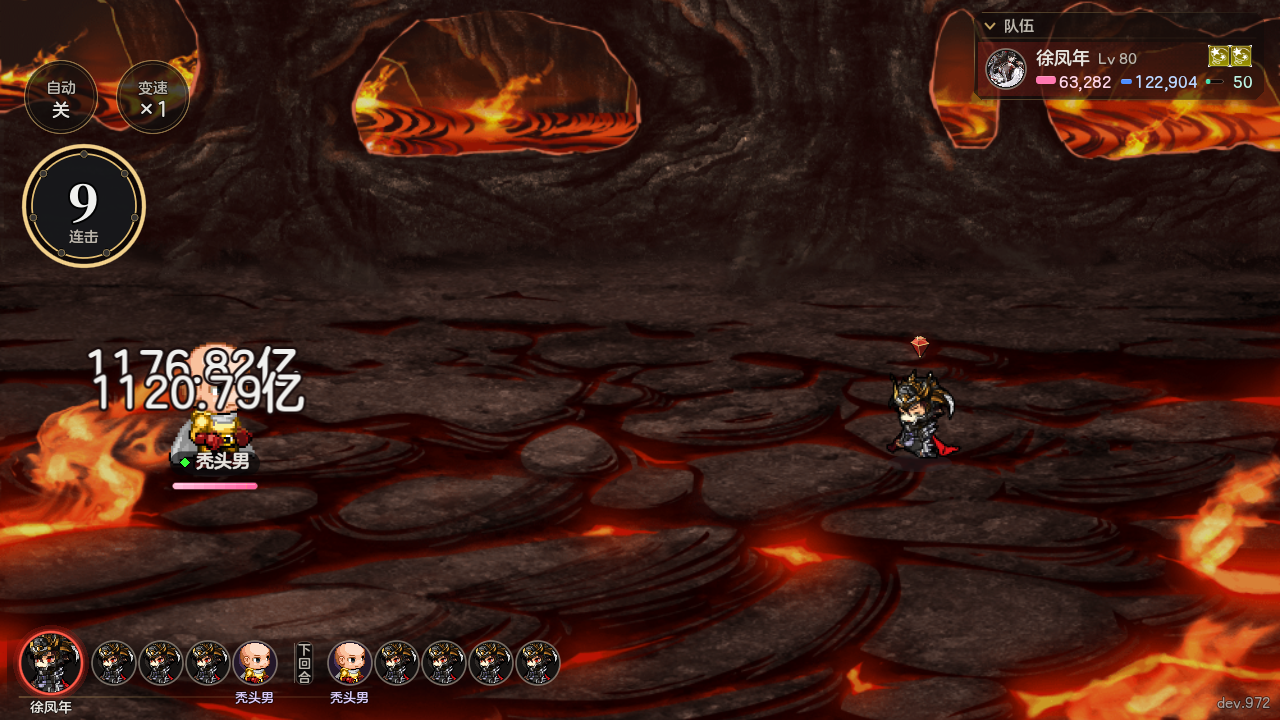
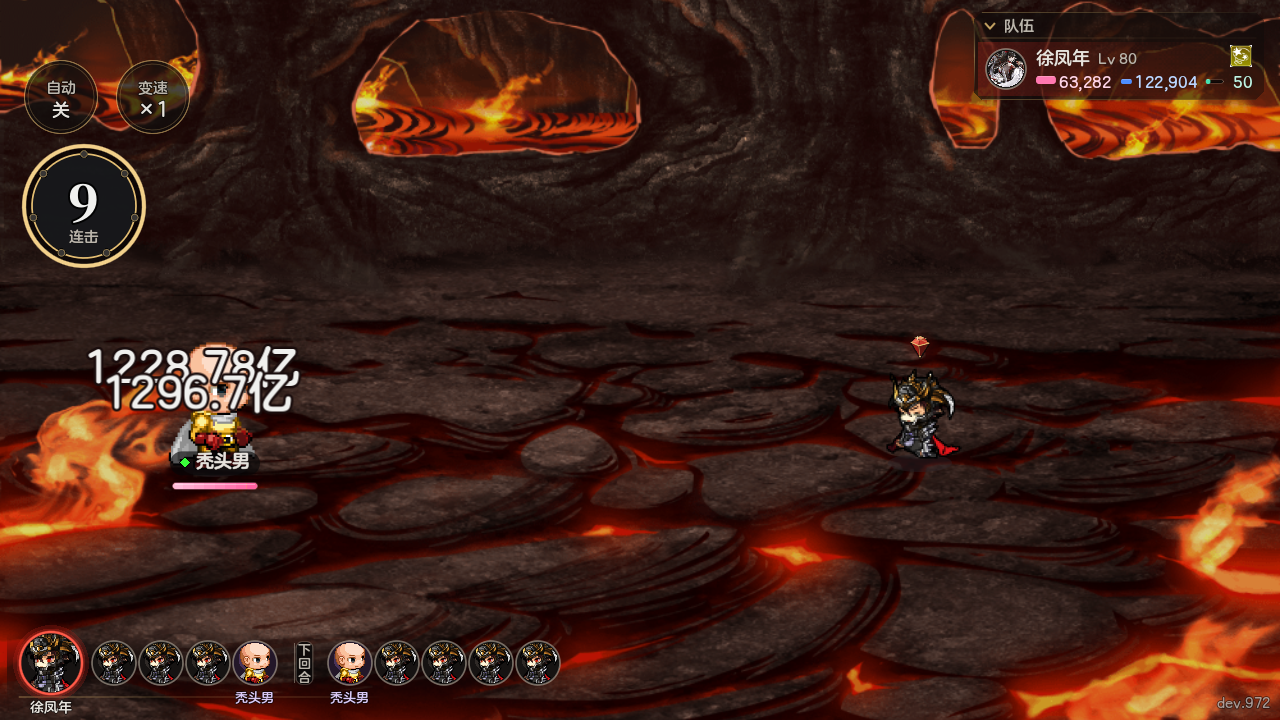
T586 R2 力竭真减半（属性最外层 ×50%，开关 XXufeng.LIJIE_MUL）、施放当回合状态栏只列收剑；剑九系数 361000→384000／545000→580000 拉回 D272 守线（75 全套仍 PENDING_KYO）；重拍 05～07；交付单 R2 节
执行者: cc
核查: 待审查

Changed region(s): [[0.0625, 0.4583, 0.25, 0.5806], [0.9375, 0.0611, 0.9688, 0.0917]]

diff --git a/00_项目管理/交付/luiluu_t586.md b/00_项目管理/交付/luiluu_t586.md
@@ -14,6 +14,25 @@
 
 量数影响：单敌 D272 口径逐种子与改前**逐位相同**（力竭改的只是施放当回合，那回合收剑本来就不能再行动；单敌时「全体」等于所选）。三敌木桩附报变了（剑九不再打全体）：70 级 1.046 → **0.521**，80 全套 1.129 → **0.653**（3 种子均值比，附报不判线）。截图 05～08 重拍（`TESTMODE unlocked=false enabled=false`，01～04 卡面重跑后与原图逐字节相同、没变）。
 
+## 返修 R2（2026-11-28，小o R2 复核 P2-1 余项）
+
+| 项 | 问题 | 怎么改 | 证据 |
+| --- | --- | --- | --- |
+| P2-1 余 | 力竭挂的是 −50% 能力值比率特性，本工程比率加算（1＋Σ(值−1)），80 级全套最大魔法只少 25%、物攻少 26%；施放当回合状态详情就列「力竭·2回合」 | 力竭不再挂比率特性，改在 `XActor._param_now` 最外层乘 `XXufeng.lijie_param`（×50%，收剑还在的施放当回合不乘），收剑的 +50% 抵消项随之去掉；施放当回合状态栏与侧栏格子不列力竭（`XXufeng.lijie_hidden`），收剑说明写「收剑期间属性不变，下一回合力竭：全属性-50%」，第 3 回合列「力竭·1回合」。回退开关 `XXufeng.LIJIE_MUL := true`（false 回 R1 加算） | 新断言 `full.*`（80 级全套）：施放当回合八项与施放前逐项相等、状态栏无力竭且收剑说明含「下一回合力竭」；第 3 回合八项逐项＝施放前×50%（63282→31641、122904→61452、25739→12870…）、状态栏「力竭·1回合」；第 4 回合逐项恢复；开关关回 R1 |
+| 强度 | 真减半后 D272 守线掉线（lv50 1.156→1.142、lv80 全套 1.209→1.115） | 协调 11-28 定 B：保留真减半，剑九系数只调一次 361000→**384000**、545000→**580000**（各 +6.5%；先用 +30% 探了一次斜率再定，探的那次没提交）；9998、剑三不动 | 下表 |
+
+调后口径 B（5／10 回合各五种子均值再平均；本机临时 HOME 隔离测试模式）：
+
+| 档 | 调前（R1） | 真减半未调 | 调后 | 判线 |
+| --- | --- | --- | --- | --- |
+| 50 | 1.156 | 1.142 | **1.197** | 过 |
+| 70 主 | 1.188 | 1.173 | **1.230** | 过 |
+| 75 全套 | 1.130 | 1.042 | **1.088** | 没回线，照旧 `PENDING_KYO` |
+| 80 全套 | 1.209 | 1.115 | **1.165** | 过 |
+| 关 888（50／70／75 全套／80 全套） | 1.080／1.176／1.139／1.252 | — | 1.118／1.218／1.121／1.234 | 70 过；50、75 全套照旧 `PENDING_KYO`；80 全套回线内（仍在名单里只打印） |
+
+每场选招（5 回合、种子 1～5 合计÷5）：50／70 级剑九 2 次、9998 7 次、剑三 2 次；75／80 全套剑九 2 次、9998 10 次、剑三 2 次。单击比（全暴击）：剑九一次（九段合计）÷狂刀 6039 一次 70 级 **0.854**、80 全套 **0.892**；剑九÷9998 一次 7.63／7.49。三敌附报 70 级 0.525、80 全套 0.584。截图 05～07 重拍（07 第 3 回合 31,641／61,452，正好减半），01～04 逐字节没变，08 老档那张没重拍（只看能不能放）。
+
 ## 变更记录草稿
 
 ## 2026-11-28 【cc·T586·未经审查】西游档徐凤年：剑一·龙蛇、剑二·并蒂莲、剑三·三斤、剑九·六千里做成主动战技，全套系数平摊重调（dev.待定）
@@ -25,7 +44,7 @@
     - 9988 剑二·并蒂莲：战技，敌方全体各两段，TP20、冷却 2；
     - 9989 剑三·三斤：战技，单体一段，50% 眩晕 1 回合（原版状态 29），TP30、冷却 3；
     - 剑一～剑三原被动加成（物理/寒冰伤、穿抗，D272 数值）照留；剑四～剑八照旧被动；
-    - 9995 剑九·六千里：战技，单体九段（只打所选的一个敌人），TP50，预热 2（第 2 回合起可用），冷却 2（战后冷却 −10 必清零）；放完给自己挂表外状态 19502「收剑」（本回合剩下的行动作废）与 19503「力竭」（下一回合全属性 ×50%；施放当回合由收剑抵消，属性不变）；去掉原版空公共事件 1704、`Hide in Battle`、空效果开战状态 2538；
+    - 9995 剑九·六千里：战技，单体九段（只打所选的一个敌人），TP50，预热 2（第 2 回合起可用），冷却 2（战后冷却 −10 必清零）；放完给自己挂表外状态 19502「收剑」（本回合剩下的行动作废）与 19503「力竭」（下一回合八项实际属性 ×50%，在属性最外层乘、不与装备比率加算；施放当回合不生效、状态栏只列收剑；回退开关 `XXufeng.LIJIE_MUL`）；去掉原版空公共事件 1704、`Hide in Battle`、空效果开战状态 2538；
     - 公式都和 9998 同形 `(666666+a.atk×系数)×(1+熟练度)`，系数整数，联动 `XMagicWeapon.SCALE_99_TO_888`。
   - 平摊重调（`XXufeng.REWORK` 下的 D272 数值，旧→新见下「全系数对照」）：天下第一、春雷不再压到 1%；60 级圣者境界、75 级剑道唯吾（T440 没动）分担削弱；9998 下调、剑九承接份额。
   - `modes/xiyou/core/xdb.gd`：表外状态分派从只认 19501 改成认 `XXufeng.has_out_state`（19501＋19502＋19503），同样只在 `xiyou_save_on()` 时（协调放行这一行）。
@@ -62,7 +81,7 @@
 | 9976 圣者境界（60） | 暴伤/终伤 | +100% | 不动 | +90% |
 | 10085 剑道唯吾（75） | 物理伤 | +350% | 不动 | +275% |
 | 9998 剑气滚龙壁·封印 | 每段物攻系数（888 口径／99 口径） | 3000＋敌血×0.000015 | 130000／209000 | 92000／139000 |
-| 9995 剑九·六千里 | 每段物攻系数（888／99），九段 | 无（空事件） | 无 | 361000／545000 |
+| 9995 剑九·六千里 | 每段物攻系数（888／99），九段 | 无（空事件） | 无 | 384000／580000（R2 力竭真减半后由 361000／545000 上调 6.5%） |
 | 9987 剑一·龙蛇 | 每段（888／99），随机 4 段 | 被动 | 被动 | 69000／110000 |
 | 9988 剑二·并蒂莲 | 每段（888／99），全体各 2 段 | 被动 | 被动 | 184000／296000 |
 | 9989 剑三·三斤 | 每段（888／99），单体 1 段 | 被动 | 被动 | 368000／592000 |
@@ -115,7 +134,7 @@
 - 剑二·并蒂莲：战技｜伤害属性 物理｜目标 敌方全体两次｜冷却 2回合｜消耗 20TP｜物理/寒冰伤害+8% 无视敌人物理/寒冰抗性+2%｜效果：一剑两花，同时斩向所有敌人｜据说是剑九黄的绝学!｜两仪相生并蒂莲
 - 剑三·三斤：战技｜伤害属性 物理｜目标 单体一次｜冷却 3回合｜消耗 30TP｜物理/寒冰伤害+10% 无视敌人物理/寒冰抗性+3%｜效果：剑重三斤，命中后有50%几率让目标眩晕1回合｜据说是剑九黄的绝学!｜剑上剑气重三斤
 - 剑九·六千里：战技｜伤害属性 物理｜目标 单体攻击九次｜消耗 50TP｜效果：战斗第2回合起才能使用，冷却2回合｜效果：九段剑气，伤害随攻击力和技能等级提升，可以暴击｜据说是剑九黄的绝学!｜代价：使出后本回合不能再行动，下一回合力竭，全属性降低50%｜劣马黄酒六千里
-- 新状态名：「收剑」（说明：剑九已出，本回合不能再行动；提示「%1收剑了！」）、「力竭」（说明：全属性-50%；提示「%1力竭了！」）
+- 新状态名：「收剑」（说明：剑九已出，本回合不能再行动／收剑期间属性不变，下一回合力竭：全属性-50%；提示「%1收剑了！」）、「力竭」（说明：全属性-50%；施放下一回合才出现在状态栏，显示 1 回合；提示「%1力竭了！」）
 - 改数的卡面行（文字格式不变，只换数）：天下第一「你有2%的几率再次行动」「爆伤+6%，伤害+6%」「所有伤害+5%」「暴击率+250%」「命中率+250%」「所有属性+3%」「最大魔法值+15000 +150%」「最大生命值+50000 +250%」「无视敌人所有抵抗30%」；春雷「混沌伤+90%」「攻击力能力值*105%，爆伤+25%，伤害+25%」；圣者境界「暴击伤害、最终伤害各＋90%」；剑道唯吾「物理伤害+275%」；9998「伤害:连续攻击敌方全体五次，伤害随攻击力和技能等级提升。」「对象:敌方全体攻击五次」（返修 P2-2：原来写内部公式、对象写单体，改成不带系数、如实写全体）。
 - 卡面不写内部系数（四招新卡面没有公式行）、不写存档模式名。
 
@@ -124,7 +143,7 @@
 - `00_项目管理/交付/luiluu_t586_截图/01_card_9987.png`～`04_card_9995.png`：剑一～剑三、剑九卡面，左开关关（T585 口径：被动／剑九「使用可以领悟剑气」），右 T586。
 - `05_skill_list_turn2.png`：第 2 回合战技列表（剑一·龙蛇、剑二·并蒂莲、剑三·三斤、剑九·六千里、剑气滚龙壁）。
 - `06_jian9_cast.png`：第 2 回合放出剑九（九段伤害数字、连击 9；施放当回合生命 63,282 满值，力竭还没生效）。
-- `07_lijie_turn3.png`：第 3 回合力竭（最大生命/魔法减半，队伍栏状态图标）。
+- `07_lijie_turn3.png`：第 3 回合力竭（R2 重拍：最大生命 63,282→31,641、最大魔法 122,904→61,452，正好减半）。
 - `08_oldsave_jian9_cast.png`：关开关时存的档读回（开开关）第 2 回合照样能放剑九。
 - 截图用敌群 746（单个高血敌人）、第 1 回合手动防御、第 2 回合手动选剑九；测试模式已隔离关闭（T591），见「发现」。
 
@@ -141,7 +160,7 @@
 
 ## 要 Kyo 定
 
-1. 75 全套 B 平均 1.130，比 1.15 低 0.020（`PENDING_KYO` 里只打印）。
+1. 75 全套 B 平均 1.088（R2 力竭真减半、剑九 +6.5% 之后；R1 时 1.130），比 1.15 低 0.062（`PENDING_KYO` 里只打印）。
 2. 法宝 99 旧口径（SCALE_99_TO_888 关时的回退口径）50 级 1.080、75 全套 1.139 偏低，80 全套 1.252 高 0.002。
 3. 单穿绣冬（不穿春雷）75／80 级 0.637／0.687，比 T440 守线 0.70～0.85 低约 0.05（协调定不再为它调）。
 4. 80 级天下第一：80 级不放宽线的前提下，木桩伤害项只能给到 1～6%（神秘成圣仍是 1%），80 级的分量主要放在生命、魔法、暴击/命中、无视抵抗上。

diff --git a/00_项目管理/交付/T586_小o复核R2.md b/00_项目管理/交付/T586_小o复核R2.md
@@ -1,0 +1,18 @@
+过
+
+【回执】T586｜核过｜公共规矩 v1.8＋附则 D
+
+核的是 `luiluu/t586` 的 `83f5e9d08..747a5d5cb`（返修提交 `d29357db3`、`0bb4060aa`、`747a5d5cb`）和私密仓方案 `2fb25312`。小o（gpt-6.2-sol＋high，P7）复核 cc（Opus 5.5＋medium，P8）。按派单只复核四项。游戏仓零改动、零提交。
+
+| 编号 | 复判 | 证据 |
+| --- | --- | --- |
+| P1-1 | 过 | 剑九的动画及九段结算都走 `target`。双敌选第二只，实跑 9／0，未选中者生命值原样，`two.jian9_9_0` 通过。三敌附报重跑为 70 级 0.5208、80 全套 0.6525。见 `03_再刷重制_Godot/01_Godot工程/modes/xiyou/core/xufeng.gd:893`、`03_再刷重制_Godot/01_Godot工程/tests/xiyou_xufeng_t586.gd:262`。 |
+| P2-1 | 时点通过，力竭文字和实际降幅仍有差异 | 第 2 回合施放后，收剑照常封行动，未装备和 80 级全套各自的八项属性均与施放前逐项相等。第 3 回合才下降，第 4 回合逐项恢复。全套第 3 回合最大生命 63,282→34,517，最大魔法 122,904→92,178，物攻 25,739→19,001，分别少约 45.5%、25%、26.2%。交付图 06／07 也显示同一组生命和魔法读数。力竭从原有能力值倍率里减去 50 个百分点，卡面的「全属性降低50%」却描述了对当前属性的相对减半。状态详情在施放当回合也已列出「力竭」「2回合」「全属性-50%」，与属性尚未下降的实际情况有出入。见 `03_再刷重制_Godot/01_Godot工程/modes/xiyou/core/xufeng.gd:296`、同文件第 321、903 行，`03_再刷重制_Godot/01_Godot工程/modes/xiyou/core/battler.gd:720`、`03_再刷重制_Godot/01_Godot工程/modes/xiyou/ui/party_status_panel.gd:189`。 |
+| P2-2 | 过 | 新旧两套卡面实际生成的伤害行都是「连续攻击敌方全体五次，伤害随攻击力和技能等级提升。」，目标行均写敌方全体攻击五次，卡上没有残留单体或内部公式。行动序列与加载的原版记录相等，双敌实跑各 5 段。见 `03_再刷重制_Godot/01_Godot工程/modes/xiyou/core/xufeng.gd:1000`。 |
+| P3-1 | 过 | `重制设定/徐凤年剑九主动方案.md:10` 已补纵横正文第十三、十四、十八章，原文支持四个招名、前八式先出及剑九毁袖，方案已把游戏的多段、眩晕和收剑／力竭回合规则标为游戏转译。第十八章可更准确表述为「剑九毁袖后，老黄又破四十九招，最终经脉俱断而亡」。[第十三章](https://read.zongheng.com/chapter/189169/3431758.html)、[第十四章](https://read.zongheng.com/chapter/189169/3431760.html)、[第十八章](https://read.zongheng.com/chapter/189169/3432916.html) |
+
+文字审｜滚龙壁与剑九的目标、段数和起效回合可过。力竭的减幅和状态详情待对齐。按事项 95 的原定表述，下一回合应将同等条件下的八项实际属性减半，建议加全套断言。状态详情可以写「收剑期间属性不变，下一回合力竭生效」，并让有效期显示为一回合。交付单截图说明里的「最大生命/魔法减半」也应与最终实测一致。
+
+问题｜P1×0、P2×1（沿用 P2-1）、P3×0。按本轮只因 P1 退回的口径，结论为过。
+
+实跑｜仓外隔离副本，Godot 使用 `--audio-driver Dummy`，合成测试档。分支顶端 `xiyou_xufeng_t586` 46/46、`xiyou_xufeng_rework` 65/65。另测滚龙壁双敌与卡面、力竭的裸装和全套各回合读数，原始输出见同目录 `T586_R2_探针.log`。云端 run 46106491496 成功，覆盖较早的 `d29357db3`。[云端选测](https://github.com/luiluu/PlayAgain-xiyou-godot/actions/runs/46106491496)
